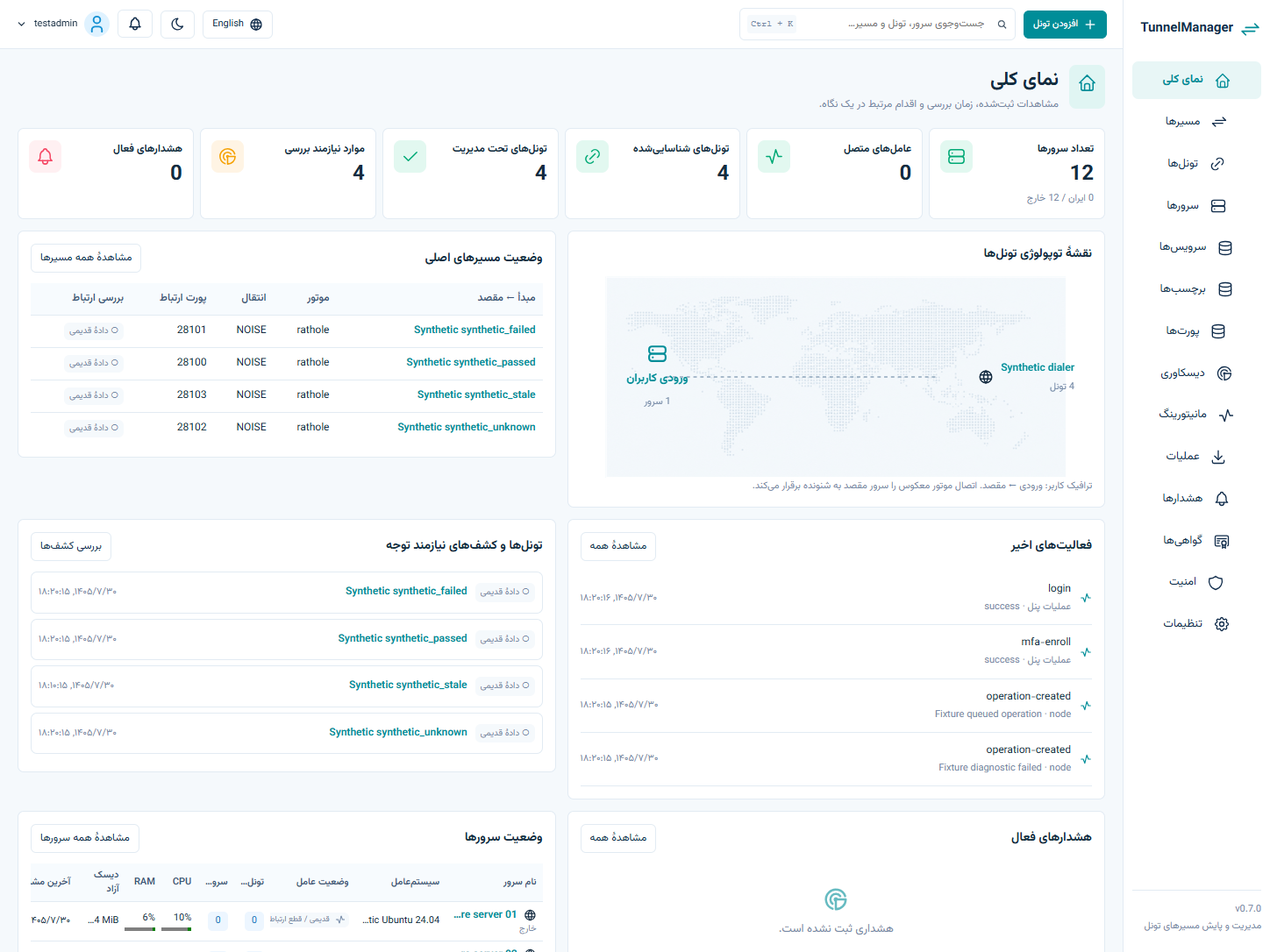
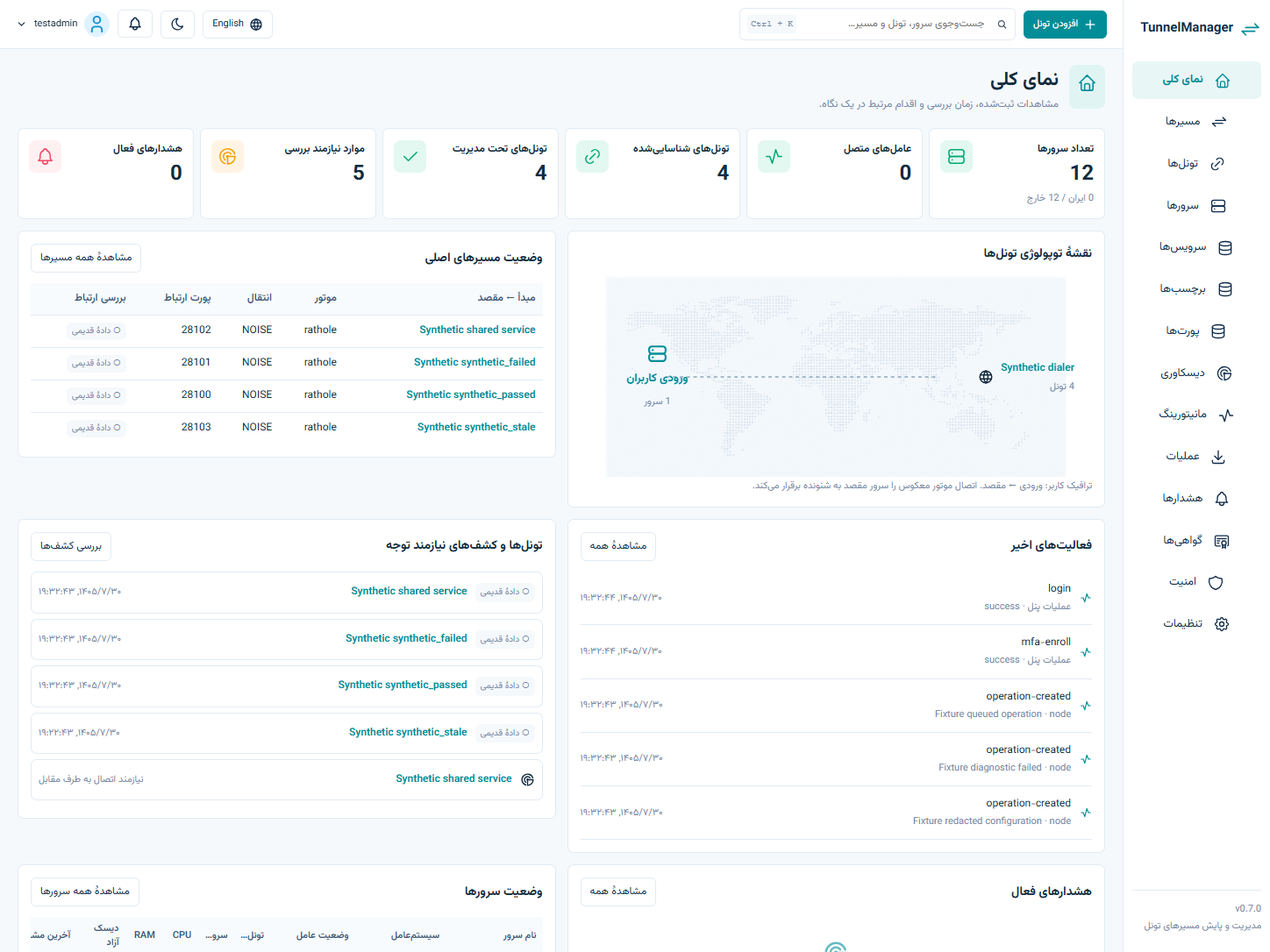
docs: record qualified console release and protected fleet deployment

diff --git a/docs/CONSOLE-0.7-REPORT.md b/docs/CONSOLE-0.7-REPORT.md
@@ -1,0 +1,37 @@
+# Console 0.7.0 delivery
+
+Runtime/source: `cfea308749a8c6bf3b97ec26314d17fbd114b400`, Go1.27.3. Subsequent documentation/evidence commits do not change this release runtime.
+
+## Everyday work
+
+The accepted overview/routes/servers/discovery layouts lead to real operations. Server summaries expose measured resources, related services/listeners and tools. Global Services opens the selected instance on the intended node for configuration, logs, recovery and lifecycle actions. Route rows preserve independent user entry, transport and backend endpoints, and separate reverse connection direction from user traffic.
+
+Selected-node discovery has per-job progress/results, bounded hostname/address correlation and unique observation-only pairs. Ambiguous/unmatched instances remain actionable through manual pairing/import. Existing infrastructure still requires explicit adoption; unsupported versions/options remain read-only with actual redacted configuration evidence. Engine installation, coordinated plans/backups/local rollback, shared/batch/lifecycle/version/clone, certificates, diagnostics, monitoring and recovery are retained. No new runtime service is added. The generated map is decorative; edges and measurements use recorded data.
+
+## Verified effects
+
+- [Verify39810760385](https://github.com/itsHesamHoseini/TunnelManager/actions/runs/39810760385): Go/PostgreSQL/browser/vet, dependency audits, full tracked/history scans and native installer lifecycle/failure tests.
+- [Clean OS39810760542](https://github.com/itsHesamHoseini/TunnelManager/actions/runs/39810760542): Ubuntu22.04/24.04 and Debian12 native installation.
+- [Native39810760229](https://github.com/itsHesamHoseini/TunnelManager/actions/runs/39810760229): engine core and full controller/PostgreSQL/browser/signed-agent/Linux/systemd workflow (full1089.75s). Actual Rathole Noise/TLS and Backhaul TCP/WSS traffic; new console discovery, intended-service redacted configuration read and route application check; port editing, shared listener/two clients, clone/version/batch/lifecycle, unpaired adoption without rewriting, certificate rotation/agent-stopped local restoration, sustained recovery during controller outage, intentional stops and data-plane continuity with both agents stopped.
+- [Bounded diagnostics39810760469](https://github.com/itsHesamHoseini/TunnelManager/actions/runs/39810760469): real limited network checks and negative/persistence cases.
+- Fast actual Chrome fixtures deliberately repeat names across peers and between a service/linked tunnel, using the same selection helpers as native. RTL/English, keyboard/mobile, filters, drafts and empty/error/waiting/stale states are checked. `console-*-fixture-*` images are synthetic UI evidence; `console-native-*` images are actual disposable Linux engine workflows.
+- The redaction regression fails on prior map-only traversal and passes recursive TOML array-table/inline-array masking while retaining non-sensitive evidence. Go1.27.3 addresses GO-2026-6809 without weakening the vulnerability gate.
+
+## Deployment and artifacts
+
+Own-installer controller and twelve existing agents were updated using verified binaries, an encrypted independent backup and root-only per-host evidence. Protected configuration/unit/TCP endpoint/PID comparisons pass on all twelve; master key and agent identities are retained. No existing tunnel/engine/SSH/firewall/global-DNS changes or production fault tests were performed. The private agent-specific hostname mapping is retained.
+
+Twelve approved nodes, eleven fresh agents, thirty-seven discovered services and twelve automatically paired observation records are present, with zero managed tunnels. The remaining node's pre-existing telemetry upload timeout/retransmission blocker persists; its health is not inferred. Owner login/MFA was not impersonated. Outside-host strict HTTPS0.7.0/source, private API401 and actual Chrome Persian/English/mobile public login pass.
+
+[v0.7.0 artifacts](https://github.com/itsHesamHoseini/TunnelManager/releases/tag/v0.7.0) and the public amd64/arm64 GHCR manifest were checked through strict HTTPS. [Release39815771686](https://github.com/itsHesamHoseini/TunnelManager/actions/runs/39815771686) retains exact-source qualification, reproducibility and actual published-bootstrap checks. Downloaded public amd64 bytes match the installed/local binary:
+
+```text
+a5716ca2f348bcf5e614c35d947e936260a5660d1d8d1d1ffbcce9ce9862330b  tunnelmanager-linux-amd64
+83a47797550808eb6cb6e62566a1c45895f8b0e5d1c9c20d0547e77276400168  tunnelmanager-linux-arm64
+```
+
+Live ACME/Cloudflare/Telegram delivery, native ARM64/Debian11 and forced OS controller termination mid-mutation remain untested. The production telemetry blocker is recorded privately. HTTP/echo does not prove VLESS health. Backhaul0.7.2 WSS does not verify peer certificate identity; explicit acknowledgement remains. Unsupported configurations are not silently adopted or rewritten. Host details, credentials, original references and rollback paths remain outside public Git.
+
+![Actual disposable Linux discovery and per-node results](evidence/console-native-discovery-en.png)
+
+![Reference-layout UI with explicitly synthetic fixtures](evidence/console-routes-fixture-fa.png)

diff --git a/docs/REQUIREMENTS.md b/docs/REQUIREMENTS.md
@@ -46,14 +46,14 @@ Evidence index and operator checks: [M1–M3 report](M1-M3-REPORT.md). Live ACME
 | M6-05 | Multi-arch static release artifacts/SHA256, GHCR and semantic tagged-release workflow; official engine license attribution | PASS: v0.6.0 Release38921423421, repeated reproducible static amd64/arm64/SHA256, public GHCR two-platform manifest, public assets and actual bootstrap download. Published/local bytes match. Native ARM64 untested; licenses attributed. |
 | M6-06 | Verified deployment through own installer, preserved unrelated infrastructure, public HTTPS/browser smoke and exact rollback guide | PASS: own-installer production controller+same-host agent upgraded to89d9960/0.6.0; encrypted independent backup and exact private rollback record;11 unrelated unit PIDs/states, application listener, master and node identity retained. External strict TLS/401/actual Chrome FA/EN/mobile login pass; six automatically discovered services, zero automatic adoptions. |
 
-Evidence and remaining verification boundaries: [M4–M6 report](M4-M6-REPORT.md). Runtime acceptance is for released89d9960. Later commits add only verification/evidence; supported/provider/platform boundaries remain explicit.
+Original M4–M6 release evidence: [M4–M6 report](M4-M6-REPORT.md), runtime89d9960/0.6.0. The reference-console register below independently qualifies subsequent runtime changes; supported/provider/platform boundaries remain explicit.
 # Reference console acceptance — 2026-10-22
 | ID | Requirement / verification | State |
 |---|---|---|
-| UI21 | Four reference layouts, real browser captures at target size plus mobile/keyboard | pending |
-| UI22 | Contextual controls connect to real workflows; filters, drafts, selection and job progress | pending |
-| UI23 | Empty/loading/error/stale and independent process/transport/application evidence | pending |
-| DS21 | Unique DNS/address correlation creates observation only; ambiguity/stale/timeout/auth mismatch tests | pending |
-| DS22 | Configuration evidence masks secret fields inside nested TOML array tables/inline arrays while retaining non-sensitive evidence | regression reproduced; fix under verification |
-| OP21 | Qualified controller/agent update preserves identities and existing infrastructure | pending |
-Reference-console checkpoint: UI21/UI22/UI23 and DS21 pass local real PostgreSQL/Chrome fixture tests, including direct service selection, draft guards, mobile/short viewport navigation, filters and evidence redaction. These are labelled fixture evidence. Additional native browser assertions exercise the same discovery/service/route entry points against real agents/engines; their CI result and OP21 deployment remain pending. No native or production success is inferred from these local results.
+| UI21 | Four reference layouts, real browser captures at target size plus mobile/keyboard | PASS: actual Go/PostgreSQL/Chrome FA/EN, 1448×1086 and 390×844 captures; design-qa.md records source comparison and deliberate technical corrections. Fixture images remain labelled. |
+| UI22 | Contextual controls connect to real workflows; filters, drafts, selection and job progress | PASS cfea308 native39810760229: selected-node discovery, intended service configuration read despite duplicate names, route application check; all four transport/create/edit and existing management workflows retained. |
+| UI23 | Empty/loading/error/stale and independent process/transport/application evidence | PASS: actual browser fixtures for empty/error/waiting/stale/drafts, native layered checks, no process-to-application health inference. |
+| DS21 | Unique DNS/address correlation creates observation only; ambiguity/stale/timeout/auth mismatch tests | PASS real PostgreSQL bounds/rejection/idempotency tests; deployed discovery creates twelve observation records from existing evidence, with zero managed tunnels. |
+| DS22 | Configuration evidence masks secret fields inside nested TOML array tables/inline arrays while retaining non-sensitive evidence | PASS: regression fails on prior map-only traversal and passes recursive fix; native service configuration read is redacted. |
+| OP21 | Qualified controller/agent update preserves identities and existing infrastructure | PASS: own-installer controller and twelve agents at cfea308/0.7.0; protected configuration/unit/TCP endpoint/PID comparisons and identities retained on all twelve. Outside-host strict HTTPS/source/401/FA/EN/mobile public login pass. Eleven fresh agents; one pre-existing telemetry transport blocker remains. |
+Console acceptance is runtime cfea308749a8c6bf3b97ec26314d17fbd114b400: Verify39810760385, cleanOS39810760542, native39810760229 and bounded diagnostics39810760469. Native engine core and full browser/controller/agent workflow pass (full1089.75s), with archived actual images under evidence/console-native-*. Production normal updates are separate from disposable Linux fault tests. Owner authentication was not impersonated. Live provider delivery, native ARM64/Debian11 and the recorded transport blocker remain explicit limits. See CONSOLE-0.7-REPORT.md.

diff --git a/docs/PROGRESS.md b/docs/PROGRESS.md
@@ -1,6 +1,8 @@
 922875d passed clean OS installation and bounded native diagnostics, but Verify correctly blocked publication on newly published GO-2026-6809 in Go 1.27.2 crypto/x509. No runtime update occurred. The candidate now requires Go 1.27.3 (official archive checksum verified); security tests are retained. During the gate review, direct service tool links and a global Services workspace were completed, with additional real native browser assertions for selected-node discovery, actual redacted configuration reads and route checks. Exact-source qualification and replacement artifacts must run again before deployment.
 
 # Progress
+2026-10-22 delivery: 0.7.0 runtime cfea308749a8c6bf3b97ec26314d17fbd114b400 passes Verify39810760385, cleanOS39810760542, native39810760229 and bounded diagnostics39810760469. Native full workflow1089.75s verifies all four transports plus the new console discovery/service/route entry points and existing shared/certificate/recovery/lifecycle workflows. Archived logs and actual native images were inspected. GitHub briefly retained in-progress metadata after successful terminal logs; its official success then arrived, and the ordinary exact-source gate qualified the deployment. No gate was weakened.
+Own-installer controller and all twelve agents are updated. All protected file/unit/TCP-listener/PID comparisons, agent identities and controller master key are retained; no existing engine/tunnel was adopted or changed. Discovery now creates twelve observation-only tunnel records from thirty-seven discovered services; managed tunnels remain zero. Eleven agents have fresh observations; the pre-existing remaining telemetry transport blocker and its private agent-only hostname mapping are preserved. Outside-host strict HTTPS/health/source/401/actual Chrome Persian/English/mobile public login pass. Owner authentication was not accessed. v0.7.0 publication and exact public artifact checks are recorded in CONSOLE-0.7-REPORT.md; private per-host backups, comparisons and rollback paths stay outside Git.
 Final security review reproduced a preview-redaction gap: secret-named fields inside unsupported TOML array tables and inline arrays were not traversed. TestRedactUnsupportedNestedArrayTables fails on the original renderer. C21/DS22 now require recursive masking while preserving non-sensitive evidence. The fix expands traversal only, without granting management to unsupported options. Candidate24 deployment is held; repeat security, PostgreSQL/browser and exact-source native qualification on the replacement source before any production update.
 Native39804392986 again passes core and all four real browser engine paths; its console selection stops because the service and linked tunnel share a name inside the same row. The shared browser selector now chooses the service-name cell on the intended server. A fast real Go/PostgreSQL/Chrome fixture deliberately repeats names across peers and a linked tunnel and checks the visible configuration using the same helpers as native CI; it passes. No engine assertions or production safeguards are removed. The outer CI budget is 50 minutes to accommodate occasional slow browser dependency installation, while both 25-minute native test limits stay unchanged. Runtime deployment remains blocked until exact-source native success.
 2026-10-22 continuation: candidate45d7b12 passes Verify39799880404, clean OS39799880467 and bounded diagnostics39799880536. Native39799880465 passes core and all four actual engine browser paths, then fails a new console assertion. Its failure screenshot proves the real configuration is present and redacted: the test read the hidden technical-evidence pre instead of the visible configuration. It also selected a same-named peer via first(), rather than the intended server. Both selectors now target the chosen server and visible configuration explicitly; no redaction, traffic or workflow assertions are removed. Repeat exact-source qualification before deployment. All runtime updates remain pending.

diff --git a/README.fa.md b/README.fa.md
@@ -1,6 +1,8 @@
 # TunnelManager
 پنل مدیریت و عیبیابی Backhaul و Rathole؛ فارسی راستچین و انگلیسی، روشن و تیره. عامل هر سرور از داخل به پنل وصل میشود. خاموشی پنل، تونلها را متوقف نمیکند.
 
+نسخهٔ ۰٫۷، نمای کلی، مسیرها، سرورها و دیسکاوری را به ابزارهای واقعی سرویس وصل میکند و جفتهای دارای شاهد کافی را بدون پذیرش مدیریت نمایش میدهد. [شواهد آزمون و استقرار](docs/CONSOLE-0.7-REPORT.md) · [راهنمای کار روزمره](docs/QUICKSTART.fa.md)
+
 ## نصب
 Ubuntu 22.04 و 24.04 و Debian 12 آزمایش لینوکسی دارند. فایل ARM64 ساخته میشود؛ اجرای بومی ARM64 و Debian 11 هنوز آزمایش نشده است.
 ```sh
@@ -8,7 +10,7 @@ curl --proto '=https' --tlsv1.2 -fsSLo install.sh https://raw.githubusercontent.
 less install.sh
 sudo sh install.sh setup --with-local-node
 ```
-نصبکننده پیش از اجرا SHA256 را بررسی میکند. راهنما دامنه، پورت، گواهی و حساب مدیر را میپرسد و پیش از تغییر خلاصه نشان میدهد. نصب Docker انتخاب صریح است. پورت پیشفرض 9443 است. ورود دومرحلهای و نگهداری کدهای بازیابی را خود مدیر انجام میدهد. [نسخهٔ منتشرشدهٔ v0.6.0](https://github.com/itsHesamHoseini/TunnelManager/releases/tag/v0.6.0) دریافت و اجرای واقعی نصبکننده را پاس کرده است. [حدود پشتیبانی](docs/RELEASE-NOTES.md) و روش ساخت از سورس در README انگلیسی آمده است.
+نصبکننده پیش از اجرا SHA256 را بررسی میکند. راهنما دامنه، پورت، گواهی و حساب مدیر را میپرسد و پیش از تغییر خلاصه نشان میدهد. نصب Docker انتخاب صریح است. پورت پیشفرض 9443 است. ورود دومرحلهای و نگهداری کدهای بازیابی را خود مدیر انجام میدهد. [نسخهٔ منتشرشدهٔ v0.7.0](https://github.com/itsHesamHoseini/TunnelManager/releases/tag/v0.7.0) دریافت و اجرای واقعی نصبکننده را پاس کرده است. [حدود پشتیبانی](docs/RELEASE-NOTES.md) و روش ساخت از سورس در README انگلیسی آمده است.
 
 ## کار روزمره
 [راهنمای مرحلهای کار با پنل](docs/QUICKSTART.fa.md)

diff --git a/README.md b/README.md
@@ -10,7 +10,7 @@ curl --proto '=https' --tlsv1.2 -fsSLo install.sh https://raw.githubusercontent.
 less install.sh
 sudo sh install.sh setup --with-local-node
 ```
-The bootstrap verifies SHA256. The wizard previews changes, domain/IP, port (9443), TLS and account setup. Docker installation is explicit. Enroll TOTP personally and save recovery codes. [v0.6.0 downloads](https://github.com/itsHesamHoseini/TunnelManager/releases/tag/v0.6.0) are published and bootstrap-tested. See [release limits](docs/RELEASE-NOTES.md). To build a reviewed checkout:
+The bootstrap verifies SHA256. The wizard previews changes, domain/IP, port (9443), TLS and account setup. Docker installation is explicit. Enroll TOTP personally and save recovery codes. [v0.7.0 downloads](https://github.com/itsHesamHoseini/TunnelManager/releases/tag/v0.7.0) are published and bootstrap-tested. See [console qualification](docs/CONSOLE-0.7-REPORT.md) and [release limits](docs/RELEASE-NOTES.md). To build a reviewed checkout:
 ```sh
 npm ci --prefix web
 npm run build --prefix web
@@ -45,7 +45,7 @@ node scripts/neutrality.mjs && node scripts/secrets.mjs
 ```
 Set TEST_DATABASE_URL to isolated PostgreSQL for integration tests; TUNNELMANAGER_BROWSER_TESTS=1 enables real Chrome fixtures. Native CI uses disposable Linux/systemd peers and actual engines, including failure paths; never production faults. The acceptance register distinguishes native, browser, fixture and untested evidence.
 
-![Persian workspace; clearly synthetic fixture data](docs/evidence/m4-tunnels-fixture-fa.png)
+![Persian operational console; clearly synthetic fixture data](docs/evidence/console-overview-fixture-fa.png)
 
 ## Architecture and credits
 One Go executable embeds UI and installer. PostgreSQL holds authority/history/jobs; bounded workers and native agents avoid a separate queue/collector. CSS tokens and small React components preserve the calm visual system without a component/chart framework. The terminal wizard supports masked inputs, Persian/English and NO_COLOR without a TUI dependency.

diff --git a/docs/EXECUTION-PLAN.md b/docs/EXECUTION-PLAN.md
@@ -9,3 +9,4 @@ Each completed checkpoint commits code plus evidence. A workflow is accepted onl
 
 Delivery checkpoint: M4/M5 supported workflows qualified on real two-peer Linux/systemd engines and browser; M6 v0.6.0 artifacts/GHCR/bootstrap published and own controller/agent production upgrade verified. Acceptance is runtime89d9960, with test-only diagnostics evidence added afterward. Provider/platform/ownership boundaries are recorded explicitly in REQUIREMENTS.md and M4-M6-REPORT.md; they are not simulated completion claims.
 2026-10-22 console revision: implement the four accepted overview/routes/servers/discovery layouts, bounded hostname correlation, actual observed configuration preview and contextual navigation; verify PostgreSQL/browser/security then exact-source native CI. Build 0.7.0 artifacts and update only this controller/native agents with a protected baseline and retained identities. Existing tunnel adoption remains an explicit owner action. Track unresolved transport/provider/platform limits honestly.
+Delivered console revision: cfea308/0.7.0 qualifies through actual PostgreSQL/Chrome, clean OS and native two-peer engine tests. Controller and twelve existing agents updated through their installers with protected comparisons retained; observed tunnel records populate without adoption. REQUIREMENTS and CONSOLE-0.7-REPORT retain the evidence and explicit provider/platform/transport limits.

diff --git a/docs/RELEASE-NOTES.md b/docs/RELEASE-NOTES.md
@@ -2,6 +2,7 @@
 Compact operational overview, routes, servers, services and discovery workspaces follow the accepted reference design. Contextual actions lead directly to real instance configuration/logs/lifecycle tools. Selected-node discovery has per-job results; ambiguous peers remain available for manual import. Bounded hostname correlation creates unique observation records without adopting services. Independent endpoints, reverse direction, freshness and application-check scope remain explicit.
 
 Built with Go 1.27.3 to address GO-2026-6809 in certificate verification. Existing encryption, identity verification, durable operations, drift/port checks and independent local rollback are preserved. No extra runtime service is added. Generated topology background and bundled licensed icons/flags are documented in THIRD-PARTY.md. Private reference data is excluded.
+Configuration previews also mask secret-named fields inside nested unsupported TOML array tables and inline arrays, retaining non-sensitive evidence. Duplicate service/tunnel/peer names are covered by shared fixture/native browser regression checks.
 
 Integrated two-node native Linux operations: pinned Backhaul/Rathole installation, discovery/import/adoption, configuration plans, shared-service impact, local commit/confirm rollback, service/batch actions, certificate lifecycle, scoped diagnostics/logs and persistent recovery/monitoring.
 

diff --git a/design-qa.md b/design-qa.md
@@ -11,3 +11,5 @@ Deliberate technical corrections: no decorative random sparklines or confidence 
 Browser verification: Persian RTL/English, target viewport and 390×844 mobile, keyboard search, route/server filters, selected panes, endpoint port mapping, loading/empty/error/stale states, durable operation results and preserved form drafts. Existing real workflow/browser regressions remain enabled. Same-source native engine qualification and production update are tracked in PROGRESS, not inferred from these images.
 
 Final result: passed for the reference layout and verified fixture states, with the intentional evidence-based semantic corrections above. This is not a claim of identical sample data or native engine evidence from screenshots.
+
+Native follow-up cfea308: inspected the actual Linux/controller/signed-agent discovery and selected-service configuration images, plus all four real transport path images. Duplicate names across peers and between a service and linked tunnel are exercised by the same selector helpers in fast Chrome fixtures and native tests. Both native phases pass; full workflow1089.75s. Production verification separately covers strict TLS/version/source/auth401 and FA/EN/mobile public login, without owner impersonation. Deployment preserves protected infrastructure on twelve hosts. See docs/CONSOLE-0.7-REPORT.md for source-qualified evidence and remaining boundaries.

diff --git a/docs/QUICKSTART.fa.md b/docs/QUICKSTART.fa.md
@@ -1,5 +1,12 @@
 # راهنمای کار روزمره
 
+## مسیرهای اصلی نسخهٔ ۰٫۷
+
+- «دیسکاوری»: سرورها را انتخاب و کشف را اجرا کنید؛ نتیجهٔ هر سرور جداست. جفتهای دارای شواهد کافی فقطمشاهدهاند؛ مورد مبهم از «اتصال / ورود» جفت میشود.
+- «سرویسها»: ردیف سرور موردنظر را انتخاب کنید تا کانفیگ، لاگ و عملیات همان سرویس باز شود؛ نام تکراری مانع انتخاب درست نیست.
+- «مسیرها»: مسیر را باز کنید، سه پورت و جهت اتصال را ببینید و از «بررسی اتصال و مدیریت تونل» وارد ابزار واقعی شوید.
+- «سرورها»: خلاصهٔ منابع و سرویسهای مرتبط در کنار جدول است؛ ابزارهای کامل از همان خلاصه باز میشوند.
+
 ## ورود و افزودن سرور
 
 ۱. نشانی HTTPS نصبشده را باز کنید. با حساب خود وارد شوید، ورود دومرحلهای را فعال و کدهای بازیابی را خصوصی نگه دارید.
